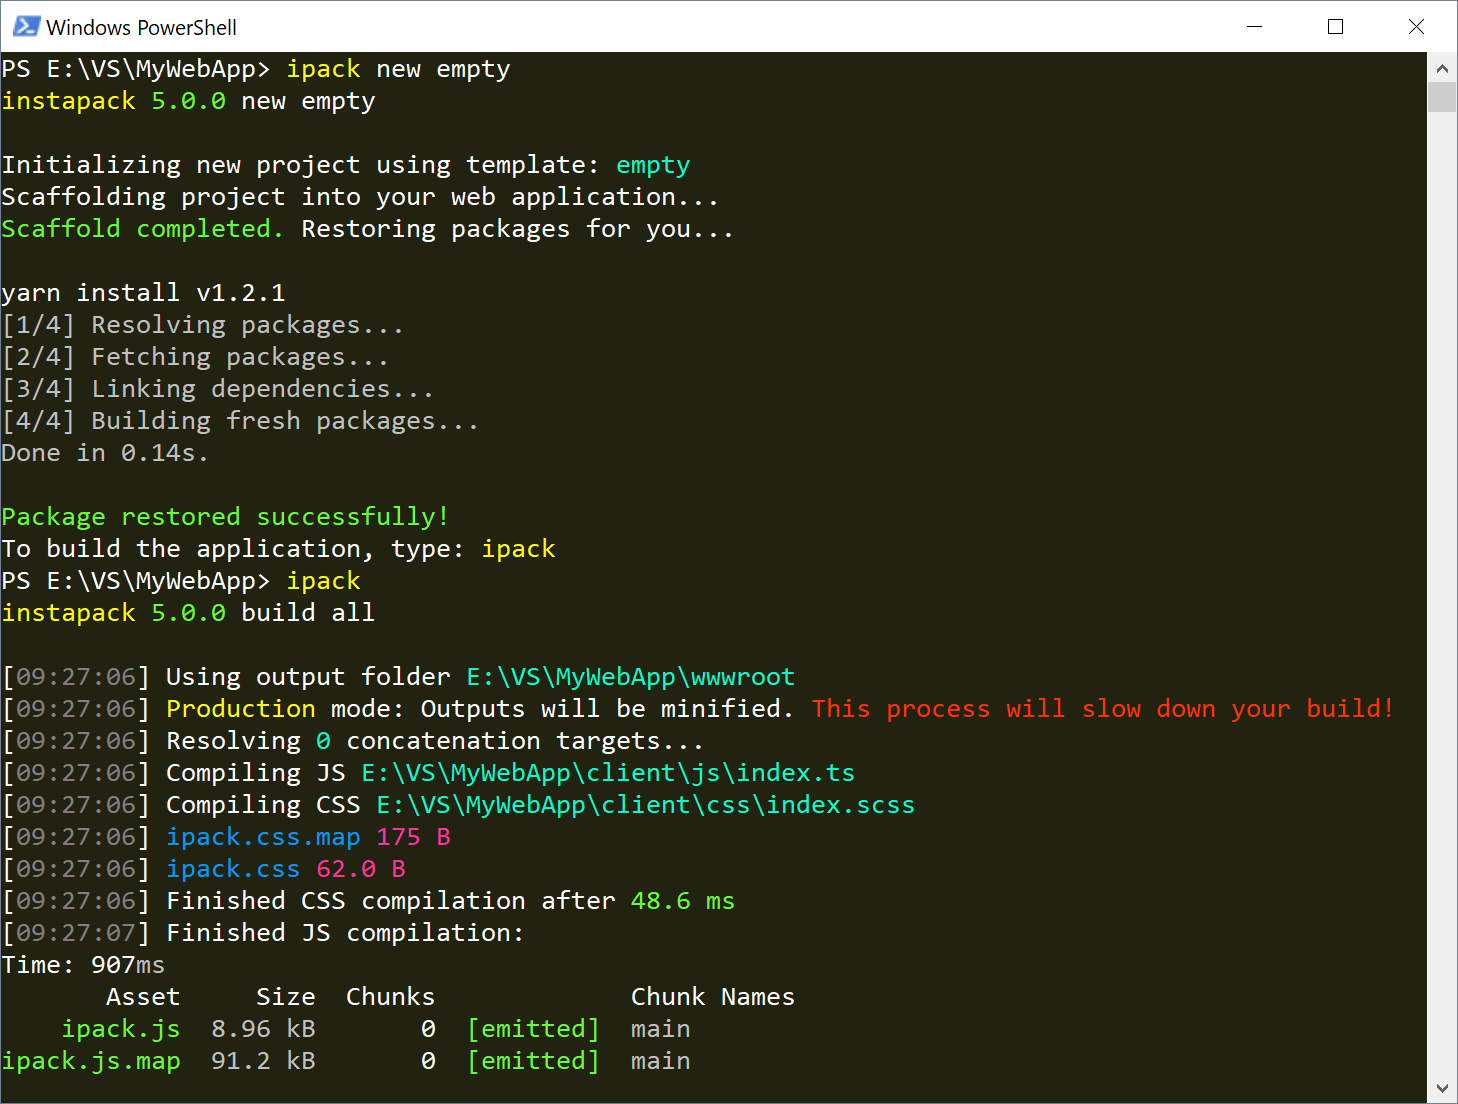
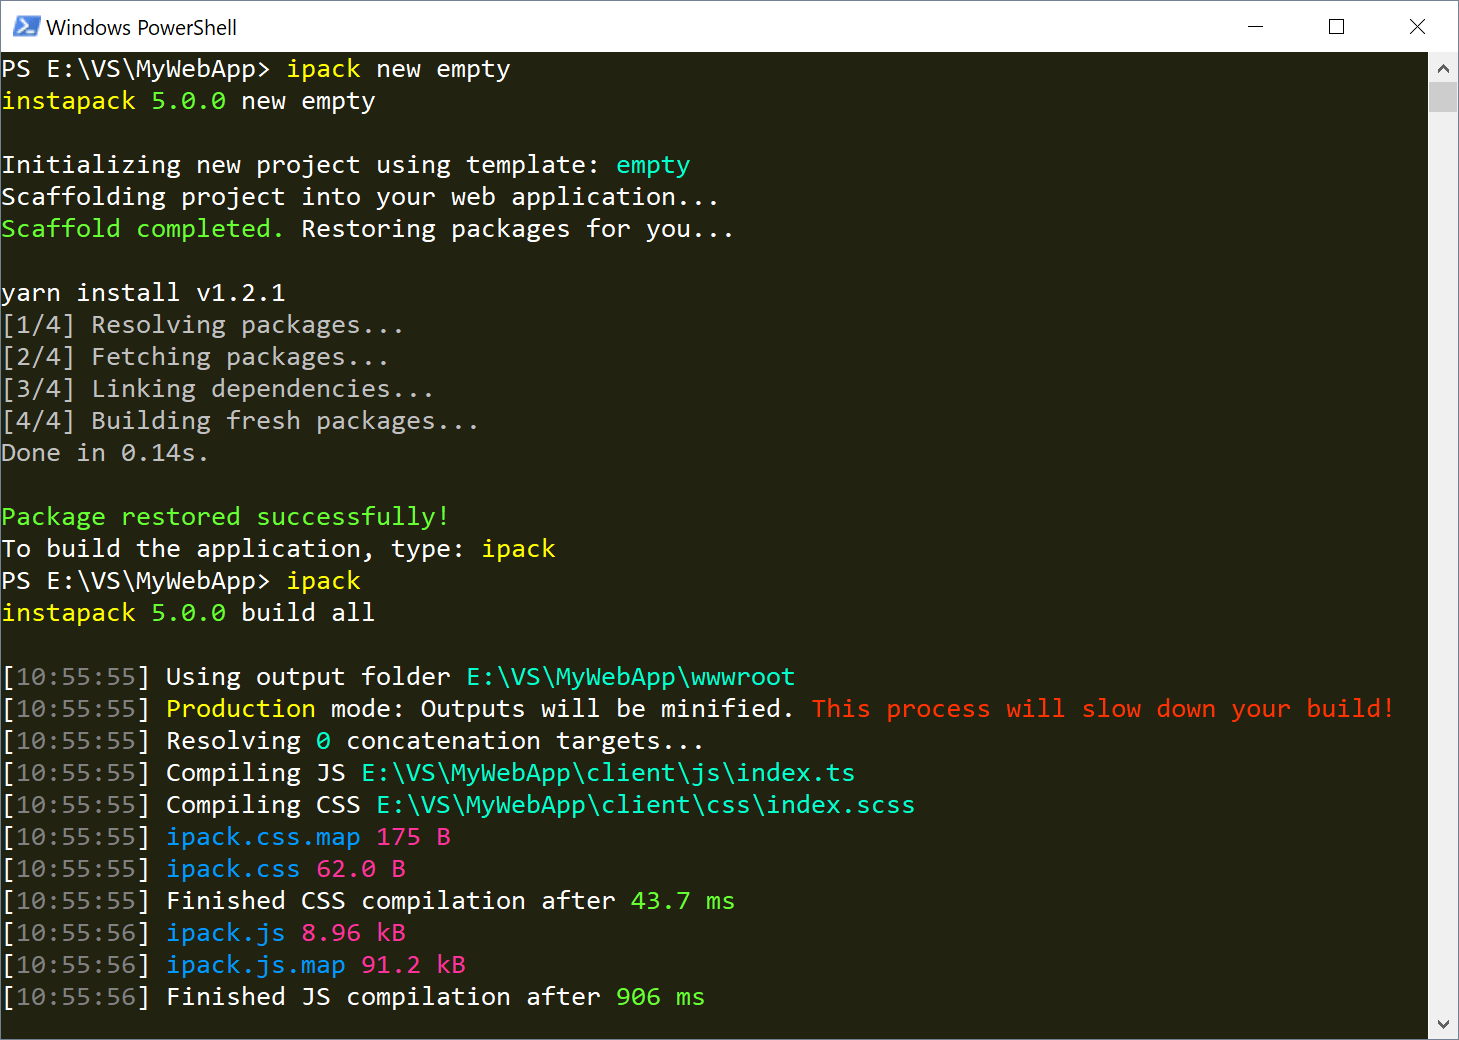
Streamlined JS build output to minimalist emit / error / warning only. Updated screenshot to reflect changes.

diff --git a/bin/Compiler.js b/bin/Compiler.js
@@ -21,6 +21,7 @@ const sourcemaps = require("gulp-sourcemaps");
 const GulpLog_1 = require("./GulpLog");
 const PipeErrorHandler_1 = require("./PipeErrorHandler");
 const To = require("./PipeTo");
+const PrettyUnits_1 = require("./PrettyUnits");
 class Compiler {
     constructor(settings, flags) {
         this.settings = settings;
@@ -153,18 +154,31 @@ class Compiler {
             GulpLog_1.default('Compiling JS', chalk_1.default.cyan(jsEntry));
             let config = this.createWebpackConfig();
             webpack(config, (error, stats) => {
-                GulpLog_1.default('Finished JS compilation:');
                 if (error) {
+                    console.error('Fatal error during JS Compilation:');
                     console.error(error);
                     return;
                 }
-                console.log(stats.toString({
-                    colors: true,
-                    version: false,
-                    hash: false,
-                    modules: false,
-                    assets: !stats.hasErrors()
-                }));
+                let o = stats.toJson();
+                for (let asset of o.assets) {
+                    if (asset.emitted) {
+                        let kb = PrettyUnits_1.prettyBytes(asset.size);
+                        GulpLog_1.default(chalk_1.default.blue(asset.name), chalk_1.default.magenta(kb));
+                    }
+                }
+                if (stats.hasErrors() || stats.hasWarnings()) {
+                    console.log(stats.toString({
+                        colors: true,
+                        version: false,
+                        hash: false,
+                        timings: false,
+                        modules: false,
+                        assets: false,
+                        chunks: false
+                    }));
+                }
+                let t = PrettyUnits_1.prettyMilliseconds(o.time);
+                GulpLog_1.default('Finished JS compilation after', chalk_1.default.green(t));
             });
         });
     }

diff --git a/src/Compiler.ts b/src/Compiler.ts
@@ -15,6 +15,7 @@ import glog from './GulpLog';
 import PipeErrorHandler from './PipeErrorHandler';
 import * as To from './PipeTo';
 import { Settings, ConcatenationLookup } from './Settings';
+import { prettyBytes, prettyMilliseconds } from './PrettyUnits';
 
 /**
  * Defines build flags to be used by Compiler class.
@@ -219,20 +220,36 @@ export class Compiler {
 
             let config = this.createWebpackConfig();
             webpack(config, (error, stats) => {
-                glog('Finished JS compilation:');
 
                 if (error) {
+                    console.error('Fatal error during JS Compilation:');
                     console.error(error);
                     return;
                 }
 
-                console.log(stats.toString({
-                    colors: true,
-                    version: false,
-                    hash: false,
-                    modules: false,
-                    assets: !stats.hasErrors()
-                }));
+                let o = stats.toJson();
+
+                for (let asset of o.assets) {
+                    if (asset.emitted) {
+                        let kb = prettyBytes(asset.size);
+                        glog(chalk.blue(asset.name), chalk.magenta(kb));
+                    }
+                }
+
+                if (stats.hasErrors() || stats.hasWarnings()) {
+                    console.log(stats.toString({
+                        colors: true,
+                        version: false,
+                        hash: false,
+                        timings: false,
+                        modules: false,
+                        assets: false,
+                        chunks: false
+                    }));
+                }
+
+                let t = prettyMilliseconds(o.time);
+                glog('Finished JS compilation after', chalk.green(t));
             });
         });
     }
